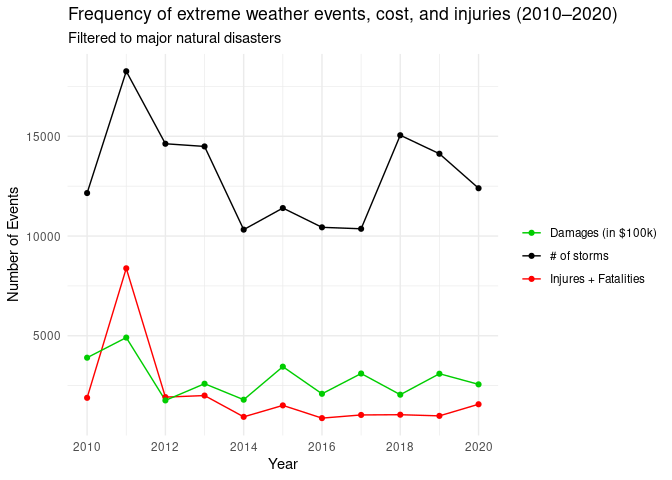
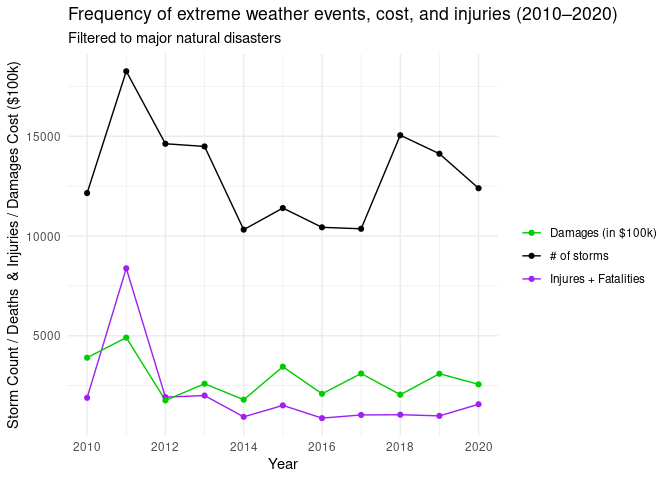
add narration to memo

diff --git a/memo/memo.md b/memo/memo.md
@@ -18,15 +18,147 @@ library(RColorBrewer)
 
 ## Data Clean Up Steps for Overall Data
 
-### Step 1: Remove all unused columns
+### Step 1: Read Individual CSV Files
 
-**SHOULD WE COPY PASTE OUR DATA CLEANING FROM THE PROPOSAL?**
-
-### Step 2: \_\_\_\_\_\_\_\_
+Our data came split into separate files by year. Here, we read each of
+these files, and remove the columns we do not plan on using. These are
+set to not run because the csv files are too large to easily push to
+GitHub, and Posit would frequently crash trying to read them.
 
 ``` r
+StormEvents_2010 <- read_csv("../data/ignore/StormEvents_details-ftp_v1.0_d2010_c20250520.csv")
+FiltStormEvents2010 <- StormEvents_2010|>
+  filter(EVENT_TYPE %in% c("Avalanche","Blizzard","Drought","Flood","Flash Flood","Excessive Heat","Tornado","Tropical Storm","Tsunami","Wildfire"))
+
+FiltStormEvents2010 <- FiltStormEvents2010 |>
+  select(-STATE_FIPS,-CZ_TYPE,-CZ_FIPS,-CZ_NAME,-TOR_F_SCALE, -TOR_LENGTH,-TOR_WIDTH,-TOR_OTHER_WFO,-TOR_OTHER_CZ_STATE,-TOR_OTHER_CZ_FIPS,-TOR_OTHER_CZ_NAME,-BEGIN_RANGE,-BEGIN_AZIMUTH,-BEGIN_LOCATION,-END_RANGE,-END_AZIMUTH,-END_LOCATION,-EPISODE_NARRATIVE,-EVENT_NARRATIVE,-DATA_SOURCE,-WFO,-YEAR)
+```
+
+``` r
+StormEvents_2011 <- read_csv("../data/ignore/StormEvents_details-ftp_v1.0_d2011_c20250520.csv")
+FiltStormEvents2011 <- StormEvents_2011|>
+  filter(EVENT_TYPE %in% c("Avalanche","Blizzard","Drought","Flood","Flash Flood","Excessive Heat","Tornado","Tropical Storm","Tsunami","Wildfire"))
+
+FiltStormEvents2011 <- FiltStormEvents2011 |>
+  select(-STATE_FIPS,-CZ_TYPE,-CZ_FIPS,-CZ_NAME,-TOR_F_SCALE, -TOR_LENGTH,-TOR_WIDTH,-TOR_OTHER_WFO,-TOR_OTHER_CZ_STATE,-TOR_OTHER_CZ_FIPS,-TOR_OTHER_CZ_NAME,-BEGIN_RANGE,-BEGIN_AZIMUTH,-BEGIN_LOCATION,-END_RANGE,-END_AZIMUTH,-END_LOCATION,-EPISODE_NARRATIVE,-EVENT_NARRATIVE,-DATA_SOURCE,-WFO,-YEAR)
+```
+
+``` r
+StormEvents_2012 <- read_csv("../data/ignore/StormEvents_details-ftp_v1.0_d2012_c20250520.csv")
+
+FiltStormEvents2012 <- StormEvents_2012|>
+  filter(EVENT_TYPE %in% c("Avalanche","Blizzard","Drought","Flood","Flash Flood","Excessive Heat","Tornado","Tropical Storm","Tsunami","Wildfire"))
+
+FiltStormEvents2012 <- FiltStormEvents2012 |>
+  select(-STATE_FIPS,-CZ_TYPE,-CZ_FIPS,-CZ_NAME,-TOR_F_SCALE, -TOR_LENGTH,-TOR_WIDTH,-TOR_OTHER_WFO,-TOR_OTHER_CZ_STATE,-TOR_OTHER_CZ_FIPS,-TOR_OTHER_CZ_NAME,-BEGIN_RANGE,-BEGIN_AZIMUTH,-BEGIN_LOCATION,-END_RANGE,-END_AZIMUTH,-END_LOCATION,-EPISODE_NARRATIVE,-EVENT_NARRATIVE,-DATA_SOURCE,-WFO,-YEAR)
+```
+
+``` r
+StormEvents_2013 <- read_csv("../data/ignore/StormEvents_details-ftp_v1.0_d2013_c20250520.csv")
+
+FiltStormEvents2013 <- StormEvents_2013|>
+  filter(EVENT_TYPE %in% c("Avalanche","Blizzard","Drought","Flood","Flash Flood","Excessive Heat","Tornado","Tropical Storm","Tsunami","Wildfire"))
+
+FiltStormEvents2013 <- FiltStormEvents2013 |>
+  select(-STATE_FIPS,-CZ_TYPE,-CZ_FIPS,-CZ_NAME,-TOR_F_SCALE, -TOR_LENGTH,-TOR_WIDTH,-TOR_OTHER_WFO,-TOR_OTHER_CZ_STATE,-TOR_OTHER_CZ_FIPS,-TOR_OTHER_CZ_NAME,-BEGIN_RANGE,-BEGIN_AZIMUTH,-BEGIN_LOCATION,-END_RANGE,-END_AZIMUTH,-END_LOCATION,-EPISODE_NARRATIVE,-EVENT_NARRATIVE,-DATA_SOURCE,-WFO,-YEAR)
+```
+
+``` r
+StormEvents_2014 <- read_csv("../data/ignore/StormEvents_details-ftp_v1.0_d2014_c20250520.csv")
+
+FiltStormEvents2014 <- StormEvents_2014|>
+  filter(EVENT_TYPE %in% c("Avalanche","Blizzard","Drought","Flood","Flash Flood","Excessive Heat","Tornado","Tropical Storm","Tsunami","Wildfire"))
+
+FiltStormEvents2014 <- FiltStormEvents2014 |>
+  select(-STATE_FIPS,-CZ_TYPE,-CZ_FIPS,-CZ_NAME,-TOR_F_SCALE, -TOR_LENGTH,-TOR_WIDTH,-TOR_OTHER_WFO,-TOR_OTHER_CZ_STATE,-TOR_OTHER_CZ_FIPS,-TOR_OTHER_CZ_NAME,-BEGIN_RANGE,-BEGIN_AZIMUTH,-BEGIN_LOCATION,-END_RANGE,-END_AZIMUTH,-END_LOCATION,-EPISODE_NARRATIVE,-EVENT_NARRATIVE,-DATA_SOURCE,-WFO,-YEAR)
+```
+
+``` r
+StormEvents_2015 <- read_csv("../data/ignore/StormEvents_details-ftp_v1.0_d2015_c20250818.csv")
+
+FiltStormEvents2015 <- StormEvents_2015|>
+  filter(EVENT_TYPE %in% c("Avalanche","Blizzard","Drought","Flood","Flash Flood","Excessive Heat","Tornado","Tropical Storm","Tsunami","Wildfire"))
+
+FiltStormEvents2015 <- FiltStormEvents2015 |>
+  select(-STATE_FIPS,-CZ_TYPE,-CZ_FIPS,-CZ_NAME,-TOR_F_SCALE, -TOR_LENGTH,-TOR_WIDTH,-TOR_OTHER_WFO,-TOR_OTHER_CZ_STATE,-TOR_OTHER_CZ_FIPS,-TOR_OTHER_CZ_NAME,-BEGIN_RANGE,-BEGIN_AZIMUTH,-BEGIN_LOCATION,-END_RANGE,-END_AZIMUTH,-END_LOCATION,-EPISODE_NARRATIVE,-EVENT_NARRATIVE,-DATA_SOURCE,-WFO,-YEAR)
+```
+
+``` r
+StormEvents_2016 <- read_csv("../data/ignore/StormEvents_details-ftp_v1.0_d2016_c20250818.csv")
+
+FiltStormEvents2016 <- StormEvents_2016|>
+  filter(EVENT_TYPE %in% c("Avalanche","Blizzard","Drought","Flood","Flash Flood","Excessive Heat","Tornado","Tropical Storm","Tsunami","Wildfire"))
+
+FiltStormEvents2016 <- FiltStormEvents2016 |>
+  select(-STATE_FIPS,-CZ_TYPE,-CZ_FIPS,-CZ_NAME,-TOR_F_SCALE, -TOR_LENGTH,-TOR_WIDTH,-TOR_OTHER_WFO,-TOR_OTHER_CZ_STATE,-TOR_OTHER_CZ_FIPS,-TOR_OTHER_CZ_NAME,-BEGIN_RANGE,-BEGIN_AZIMUTH,-BEGIN_LOCATION,-END_RANGE,-END_AZIMUTH,-END_LOCATION,-EPISODE_NARRATIVE,-EVENT_NARRATIVE,-DATA_SOURCE,-WFO,-YEAR)
+```
+
+``` r
+StormEvents_2017 <- read_csv("../data/ignore/StormEvents_details-ftp_v1.0_d2017_c20250520.csv")
+
+FiltStormEvents2017 <- StormEvents_2017|>
+  filter(EVENT_TYPE %in% c("Avalanche","Blizzard","Drought","Flood","Flash Flood","Excessive Heat","Tornado","Tropical Storm","Tsunami","Wildfire"))
+
+FiltStormEvents2017 <- FiltStormEvents2017 |>
+  select(-STATE_FIPS,-CZ_TYPE,-CZ_FIPS,-CZ_NAME,-TOR_F_SCALE, -TOR_LENGTH,-TOR_WIDTH,-TOR_OTHER_WFO,-TOR_OTHER_CZ_STATE,-TOR_OTHER_CZ_FIPS,-TOR_OTHER_CZ_NAME,-BEGIN_RANGE,-BEGIN_AZIMUTH,-BEGIN_LOCATION,-END_RANGE,-END_AZIMUTH,-END_LOCATION,-EPISODE_NARRATIVE,-EVENT_NARRATIVE,-DATA_SOURCE,-WFO,-YEAR)
+```
+
+``` r
+StormEvents_2018 <- read_csv("../data/ignore/StormEvents_details-ftp_v1.0_d2018_c20250520.csv")
+
+FiltStormEvents2018 <- StormEvents_2018|>
+  filter(EVENT_TYPE %in% c("Avalanche","Blizzard","Drought","Flood","Flash Flood","Excessive Heat","Tornado","Tropical Storm","Tsunami","Wildfire"))
+
+FiltStormEvents2018 <- FiltStormEvents2018 |>
+  select(-STATE_FIPS,-CZ_TYPE,-CZ_FIPS,-CZ_NAME,-TOR_F_SCALE, -TOR_LENGTH,-TOR_WIDTH,-TOR_OTHER_WFO,-TOR_OTHER_CZ_STATE,-TOR_OTHER_CZ_FIPS,-TOR_OTHER_CZ_NAME,-BEGIN_RANGE,-BEGIN_AZIMUTH,-BEGIN_LOCATION,-END_RANGE,-END_AZIMUTH,-END_LOCATION,-EPISODE_NARRATIVE,-EVENT_NARRATIVE,-DATA_SOURCE,-WFO,-YEAR)
+```
+
+``` r
+StormEvents_2019 <- read_csv("../data/ignore/StormEvents_details-ftp_v1.0_d2019_c20250520.csv")
+
+FiltStormEvents2019 <- StormEvents_2019|>
+  filter(EVENT_TYPE %in% c("Avalanche","Blizzard","Drought","Flood","Flash Flood","Excessive Heat","Tornado","Tropical Storm","Tsunami","Wildfire"))
+
+FiltStormEvents2019 <- FiltStormEvents2019|>
+  select(-STATE_FIPS,-CZ_TYPE,-CZ_FIPS,-CZ_NAME,-TOR_F_SCALE, -TOR_LENGTH,-TOR_WIDTH,-TOR_OTHER_WFO,-TOR_OTHER_CZ_STATE,-TOR_OTHER_CZ_FIPS,-TOR_OTHER_CZ_NAME,-BEGIN_RANGE,-BEGIN_AZIMUTH,-BEGIN_LOCATION,-END_RANGE,-END_AZIMUTH,-END_LOCATION,-EPISODE_NARRATIVE,-EVENT_NARRATIVE,-DATA_SOURCE,-WFO,-YEAR)
+```
+
+``` r
+StormEvents_2020 <- read_csv("../data/ignore/StormEvents_details-ftp_v1.0_d2020_c20250702.csv")
+
+FiltStormEvents2020 <- StormEvents_2020|>
+  filter(EVENT_TYPE %in% c("Avalanche","Blizzard","Drought","Flood","Flash Flood","Excessive Heat","Tornado","Tropical Storm","Tsunami","Wildfire"))
+
+FiltStormEvents2020 <- FiltStormEvents2020|>
+  select(-STATE_FIPS,-CZ_TYPE,-CZ_FIPS,-CZ_NAME,-TOR_F_SCALE, -TOR_LENGTH,-TOR_WIDTH,-TOR_OTHER_WFO,-TOR_OTHER_CZ_STATE,-TOR_OTHER_CZ_FIPS,-TOR_OTHER_CZ_NAME,-BEGIN_RANGE,-BEGIN_AZIMUTH,-BEGIN_LOCATION,-END_RANGE,-END_AZIMUTH,-END_LOCATION,-EPISODE_NARRATIVE,-EVENT_NARRATIVE,-DATA_SOURCE,-WFO,-YEAR)
+```
+
+### Step 2: Combine into one CSV file
+
+Next, we took all these individual CSVs and combined them into one. This
+is also set to not run since the original CSVs are not loaded.
+
+``` r
+storms <- rbind(FiltStormEvents2010,
+                FiltStormEvents2011,
+                FiltStormEvents2012,
+                FiltStormEvents2013,
+                FiltStormEvents2014,
+                FiltStormEvents2015,
+                FiltStormEvents2016,
+                FiltStormEvents2017,
+                FiltStormEvents2018,
+                FiltStormEvents2019,
+                FiltStormEvents2020)
+write_csv(storms, file="../data/storms.csv")
+```
+
+``` r
+# reload CSV because above chunks are eval=FALSE to avoid crashing Posit.
 storms <- read_csv("../data/storms.csv")
 ```
+
+### Step 3: General Data Cleaning
 
 To put the dates in a more usable format, we split up the format from
 year month into two columns, year and month.
@@ -55,8 +187,8 @@ storms <- storms|>
 
 #### Data cleanup steps specific to plot 1
 
-These data cleaning sections are optional and depend on if you have some
-data cleaning steps specific to a particular plot
+We create a new dataframe for this plot, and count the number of storms
+per year.
 
 ``` r
 storms_by_year <- storms|>
@@ -108,6 +240,12 @@ casualties_storms <- left_join(storm_casualties, storms_by_year)
 
     ## Joining with `by = join_by(BEGIN_YEAR)`
 
+To add in the total damage cost, we must reformat the way the cost is
+written. In the dataset, cost is abbreviated with K for thousand, and
+values with no damage are a mix between 0.00K and NA. Here, we rewrite
+the cost to a usable format and set all NA and 0.00K values to 0. Then,
+we join the casualty and cost dataframes.
+
 ``` r
 #Replace NA with 0
 storm_damages <- storms
@@ -150,12 +288,12 @@ ggplot(casualties_storms, aes(BEGIN_YEAR)) +
     title = "Frequency of extreme weather events, cost, and injuries (2010–2020)",
     subtitle = "Filtered to major natural disasters",
     x = "Year",
-    y = "Number of Events",
+    y = "Storm Count / Deaths  & Injuries / Damages Cost ($100k)",
     color = ""
   ) +
   theme_minimal()+
   scale_color_manual(
-    values = c("orange" = "black", "red" = "red", "green" = "#00cd00"),
+    values = c("orange" = "black", "red" = "purple", "green" = "#00cd00"),
     labels = c("orange" = "# of storms",
                "red" = "Injures + Fatalities",
                "green" = "Damages (in $100k)"))+
@@ -164,12 +302,25 @@ ggplot(casualties_storms, aes(BEGIN_YEAR)) +
 
 ![](memo_files/figure-gfm/storms_and_injuries-1.png)<!-- -->
 
+``` r
+#ggsave("storms_injuries_cost.png")
+```
+
 ### Plot 3: Final Plot 3
+
+#### Data Cleaning for Plot 3
+
+Here, we count
 
 ``` r
 storms_by_type_year <- storms |>
-count(BEGIN_YEAR, EVENT_TYPE, name = "n_events")
+  count(BEGIN_YEAR, EVENT_TYPE, name = "n_events")|>
+  filter(EVENT_TYPE %in% c("Blizzard","Drought","Flood","Flash Flood","Excessive Heat","Tornado","Tropical Storm","Wildfire"))
+```
 
+#### Final Plot 3
+
+``` r
 ggplot(storms_by_type_year,
 aes(x = BEGIN_YEAR,
 y = n_events,
@@ -187,13 +338,10 @@ scale_x_continuous(breaks = c(2010, 2012, 2014, 2016, 2018, 2020)) +
 scale_fill_brewer(palette = "Set2")
 ```
 
-    ## Warning in RColorBrewer::brewer.pal(n, pal): n too large, allowed maximum for palette Set2 is 8
-    ## Returning the palette you asked for with that many colors
-
-![](memo_files/figure-gfm/unnamed-chunk-1-1.png)<!-- -->
+![](memo_files/figure-gfm/by_storm_type-1.png)<!-- -->
 
 ``` r
-# ggsave("storms_by_type.png")
+#ggsave("storms_by_type.png")
 ```
 
 ### Plot 4: \_\_\_\_\_\_\_\_\_\_\_
